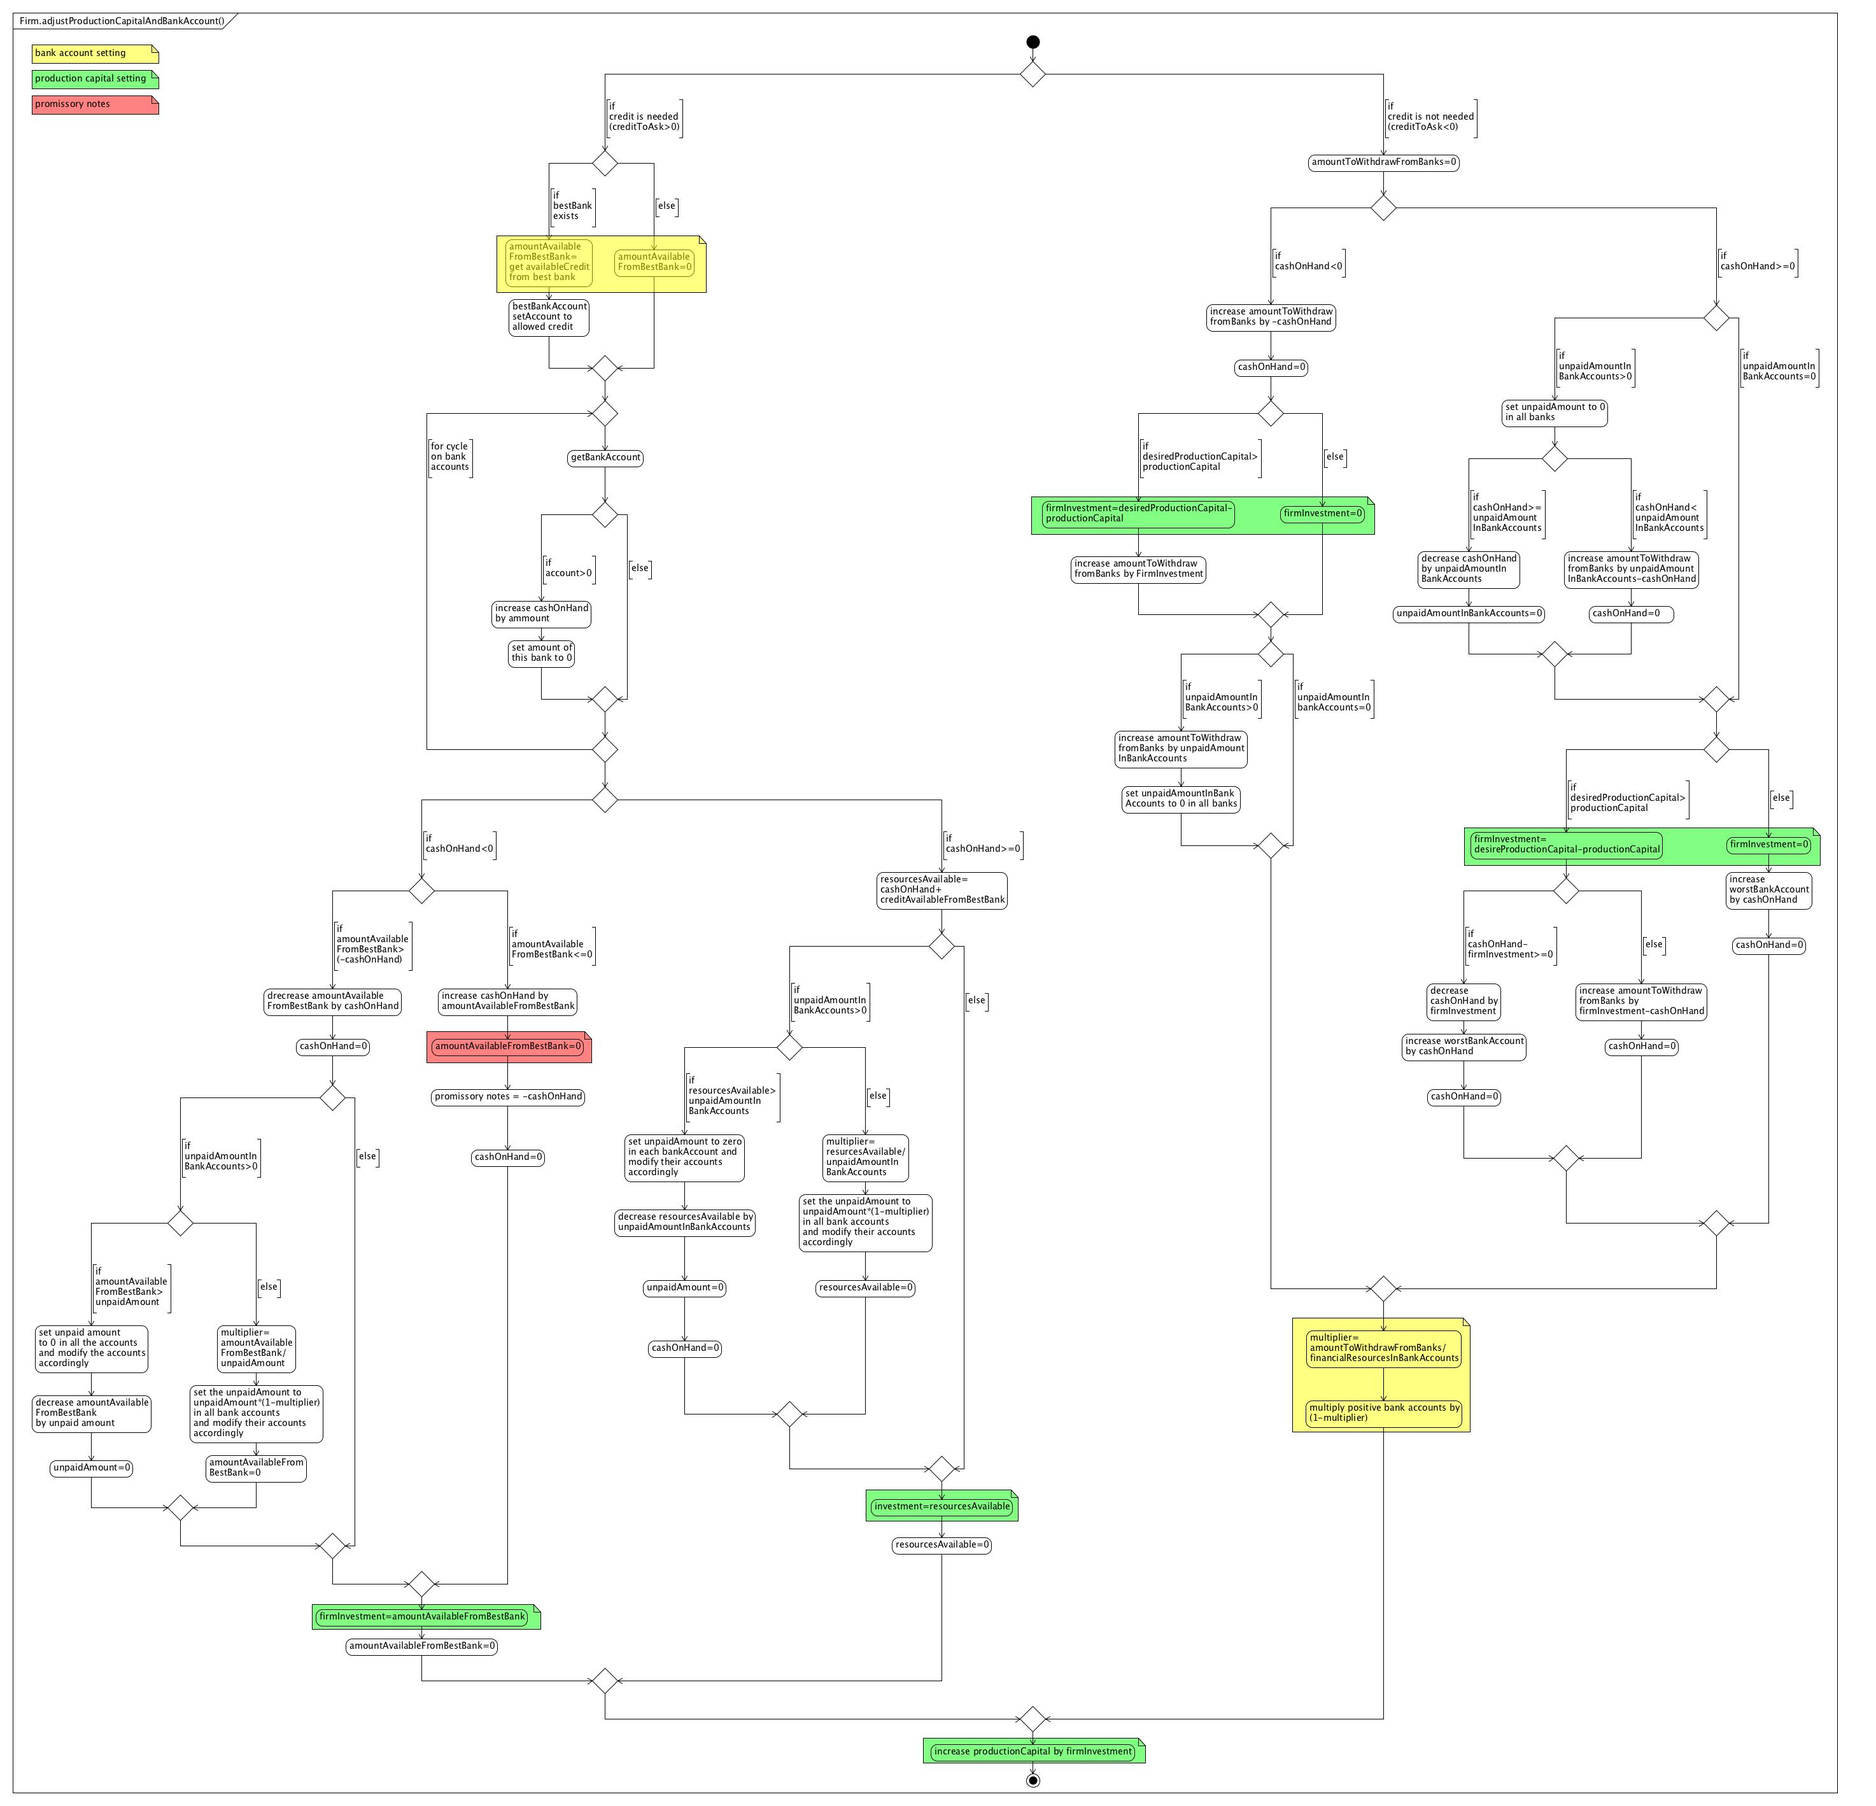
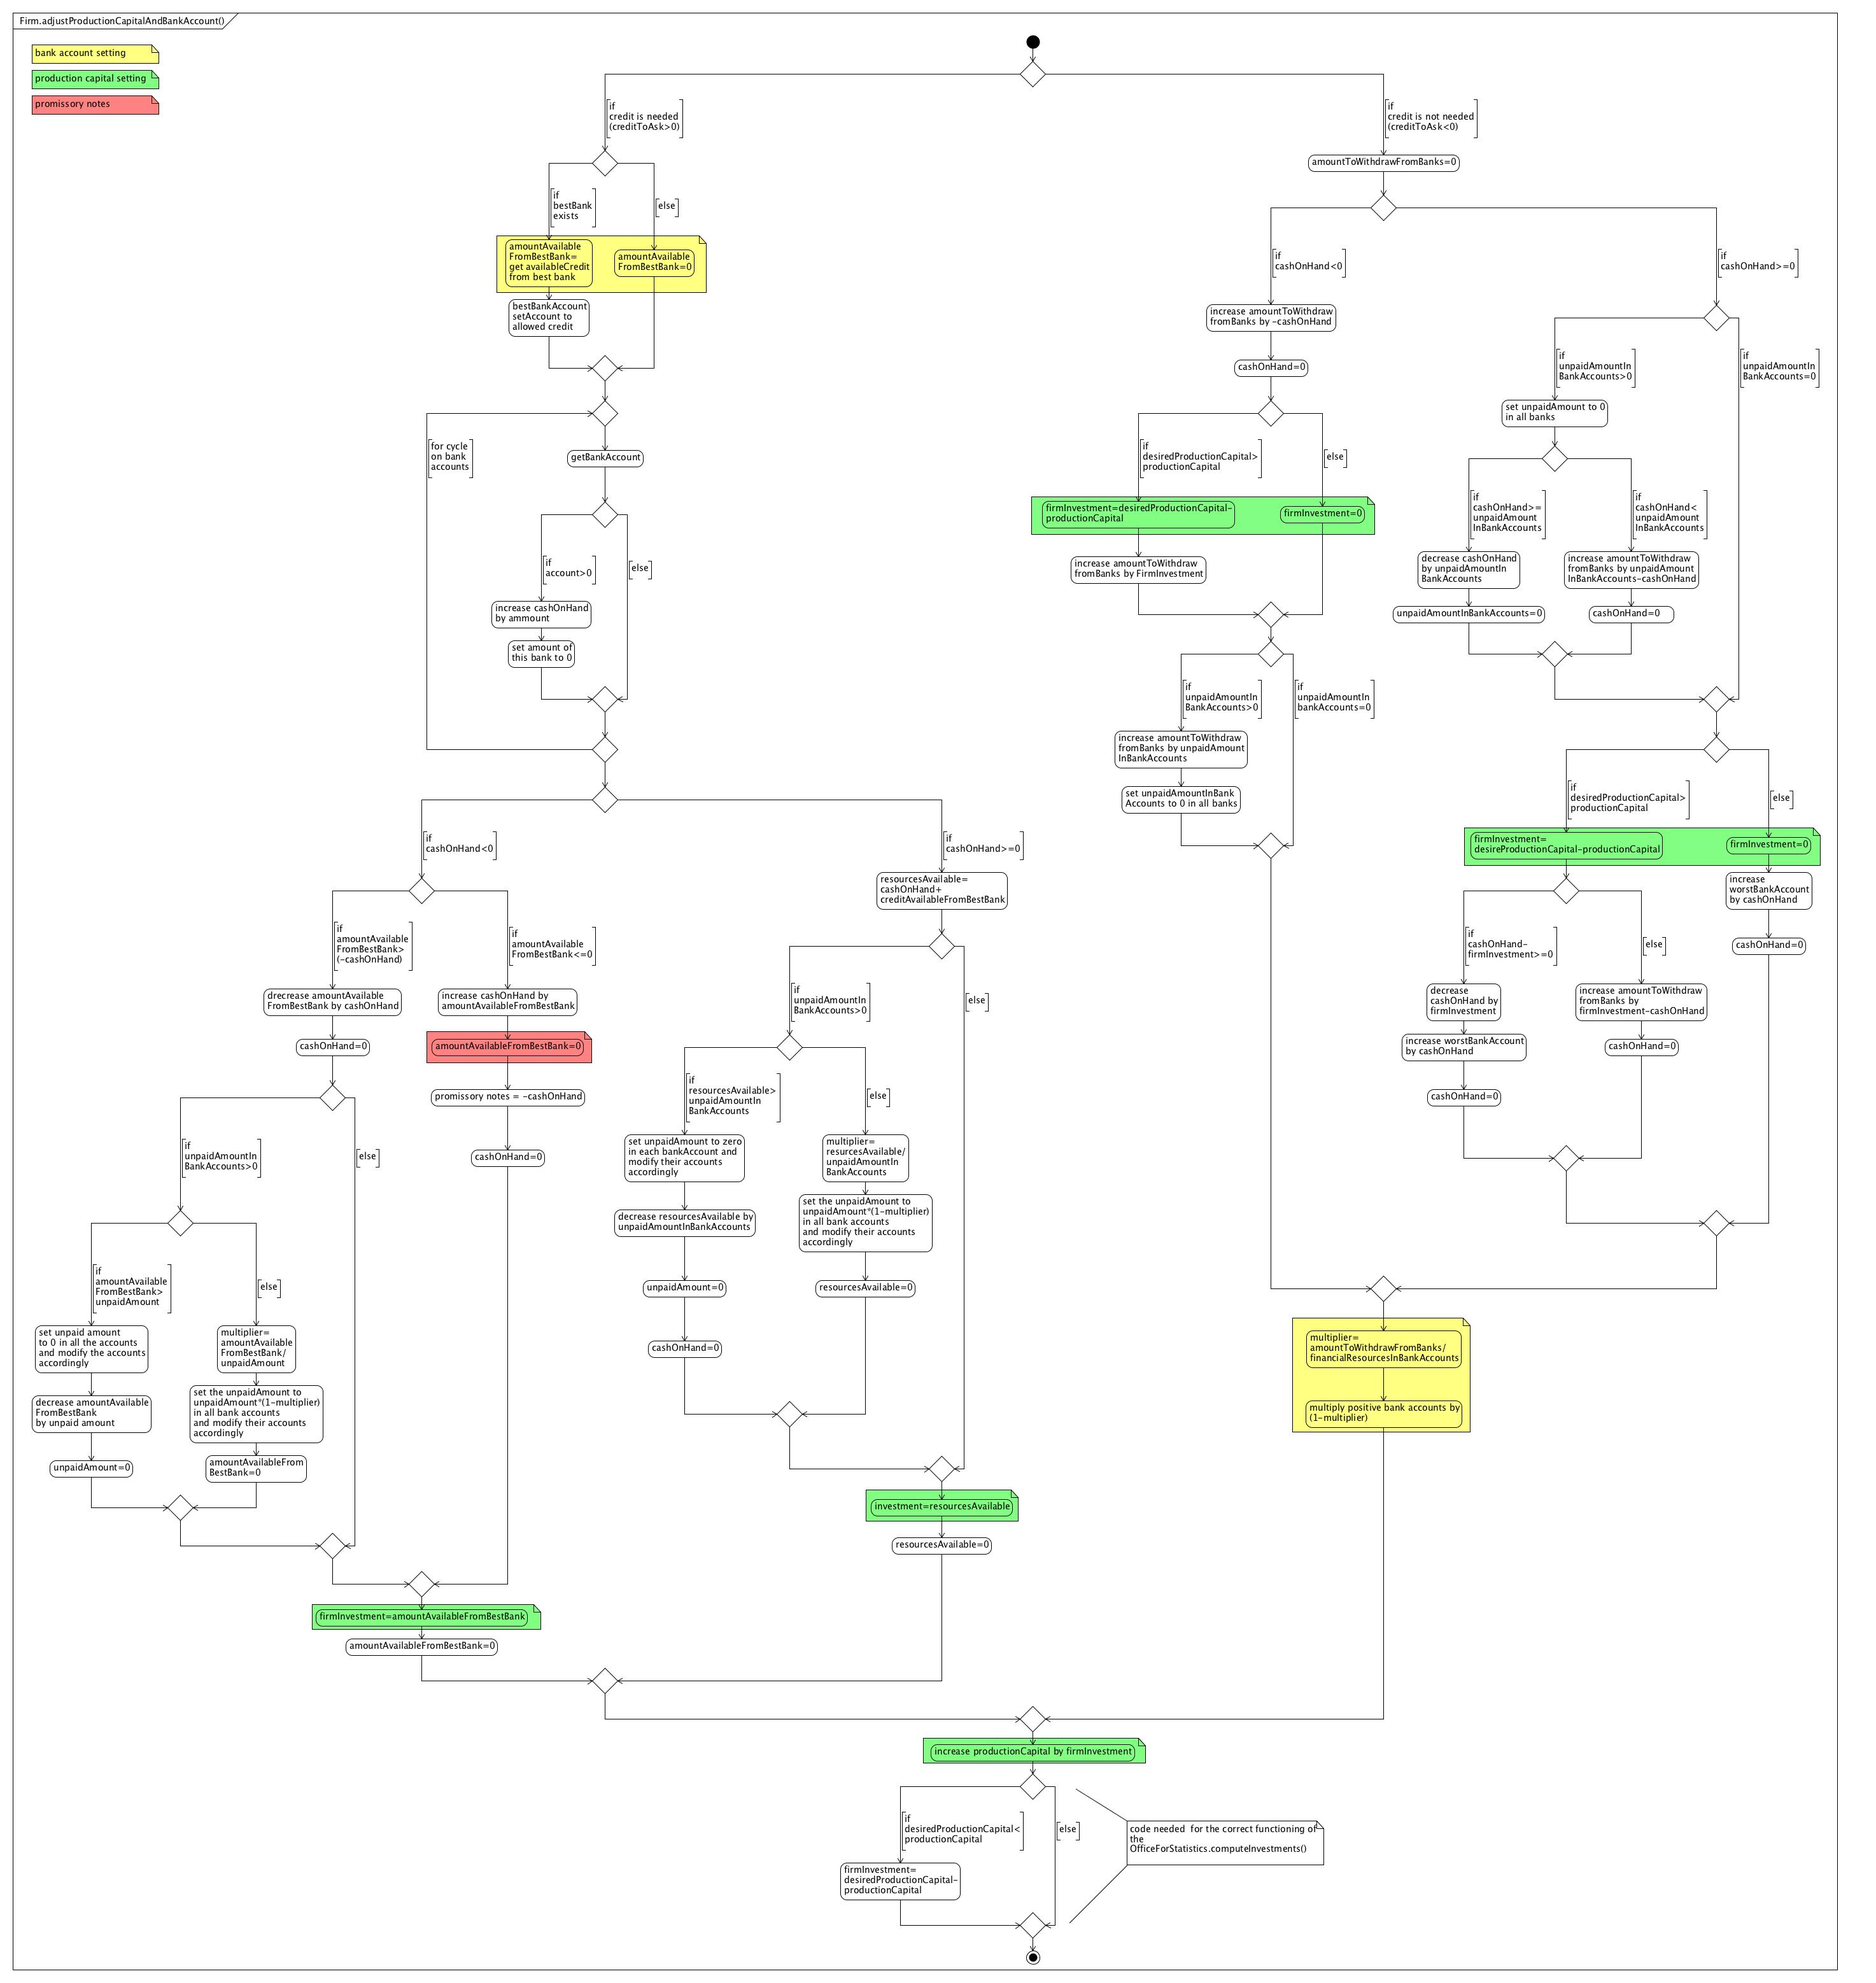
documentation: send job applications

diff --git a/documentation/index_loop.html b/documentation/index_loop.html
@@ -160,13 +160,13 @@ Back to <a href="index.html"> home </a>
 </tr>
 <tr>
 	<td><b>Firms</b> </td>
-	<td><a href="jettisoningCurricula.html">jettisoningCurricula</a> </td>
 	<td>jettisoningCurricula </td>
+	<td>empty the list of curricula </td>
 </tr>
 <tr>
 	<td><b>OfficeForLabor</b> </td>
-	<td><a href="jettisoningCurricula.html">jettisoningCurricula</a> </td>
 	<td>jettisoningCurricula </td>
+	<td>empty the list of curricula </td>
 </tr>
 <tr>
 	<td><b>Firms </b> </td>

diff --git a/documentation/laborForceDownwardAdjustment.html b/documentation/laborForceDownwardAdjustment.html
@@ -1,0 +1,12 @@
+<HTML>
+<HEAD>
+</HEAD>
+<BODY LANG="it-IT">
+
+Back to <a href="index.html"> home </a> or to <a href="index_loop.html">main loop</a>
+<p>
+<IMG SRC="laborForceDownwardAdjustment.jpg">
+<p>
+Back to <a href="index.html"> home </a> or to <a href="index_loop.html">main loop</a>
+
+</BODY>

diff --git a/documentation/allocateInvestments.html b/documentation/allocateInvestments.html
@@ -1,0 +1,12 @@
+<HTML>
+<HEAD>
+</HEAD>
+<BODY LANG="it-IT">
+
+Back to <a href="index.html"> home </a> or to <a href="index_loop.html">main loop</a>
+<p>
+<IMG SRC="allocateInvestments.jpg">
+<p>
+Back to <a href="index.html"> home </a> or to <a href="index_loop.html">main loop</a>
+
+</BODY>

diff --git a/documentation/sendJobApplications.html b/documentation/sendJobApplications.html
@@ -1,0 +1,12 @@
+<HTML>
+<HEAD>
+</HEAD>
+<BODY LANG="it-IT">
+
+Back to <a href="index.html"> home </a> or to <a href="index_loop.html">main loop</a>
+<p>
+<IMG SRC="sendJobApplications.jpg">
+<p>
+Back to <a href="index.html"> home </a> or to <a href="index_loop.html">main loop</a>
+
+</BODY>

diff --git a/src/sfcabm/Firm.java b/src/sfcabm/Firm.java
@@ -195,7 +195,7 @@ public class Firm {
 		desiredProductionCapital=productionCapital;
 //		desiredDemand=Context.parameterOfProductivityInProductionFuncion;
 		desiredDemand=(int)productionCapital;
-		equity=productionCapital*RandomHelper.nextDoubleFromTo(0.1,0.3);
+		equity=productionCapital*RandomHelper.nextDoubleFromTo(Context.minFirmInitialEquityRatio,Context.maxFirmInitialEquityRatio);
 		debt=productionCapital-equity;
 		if(Context.verboseFlag){
 		System.out.println("     Firm "+identity+" production capital "+productionCapital+" debt "+debt+" equity "+equity);
@@ -217,9 +217,9 @@ public class Firm {
 			if(Context.verboseFlag){
 				System.out.println("       open account");
 			}
-			aBankAccount=new BankAccount(-debt,this,aBank);
-			aBankAccount.setAccount(-debt);
-			aBankAccount.setAllowedCredit(-debt);
+			aBankAccount=new BankAccount(-debt/numberOfBanksToBeCustomerOf,this,aBank);
+			aBankAccount.setAccount(-debt/numberOfBanksToBeCustomerOf);
+			aBankAccount.setAllowedCredit(-debt/numberOfBanksToBeCustomerOf);
 			bankAccountsList.add(aBankAccount);
 			aBank.addAccount(aBankAccount);
 
@@ -576,6 +576,10 @@ System.out.println("      ----------------");
 
 		}
 		productionCapital+=firmInvestment;
+//the following code is needed for the correct functioning of the OfficeForStatistics.computeInvestments()
+		if(desiredProductionCapital<productionCapital){
+			firmInvestment=desiredProductionCapital-productionCapital;
+		}
 
 
 		cashOnHandAfterRefundingBank=cashOnHand;
@@ -610,7 +614,7 @@ System.out.println("      ----------------");
 		while(workersListIterator.hasNext()){
 			aConsumer=workersListIterator.next();
 			if(aConsumer.getAge()<Context.consumerExitAge){
-				productionCapacityAfterWorkforceAdjustment=productionCapacityAfterWorkforceAdjustment+aConsumer.getProductivity()*Context.parameterOfProductivityInProductionFuncion;
+				productionCapacityAfterWorkforceAdjustment+=aConsumer.getProductivity()*Context.parameterOfProductivityInProductionFuncion;
 			}
 			else{
 				aConsumer.receiveRetirementNew();
